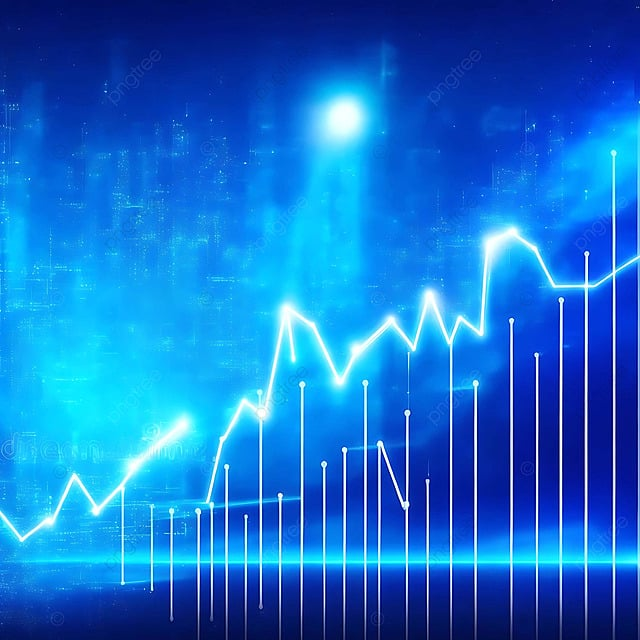
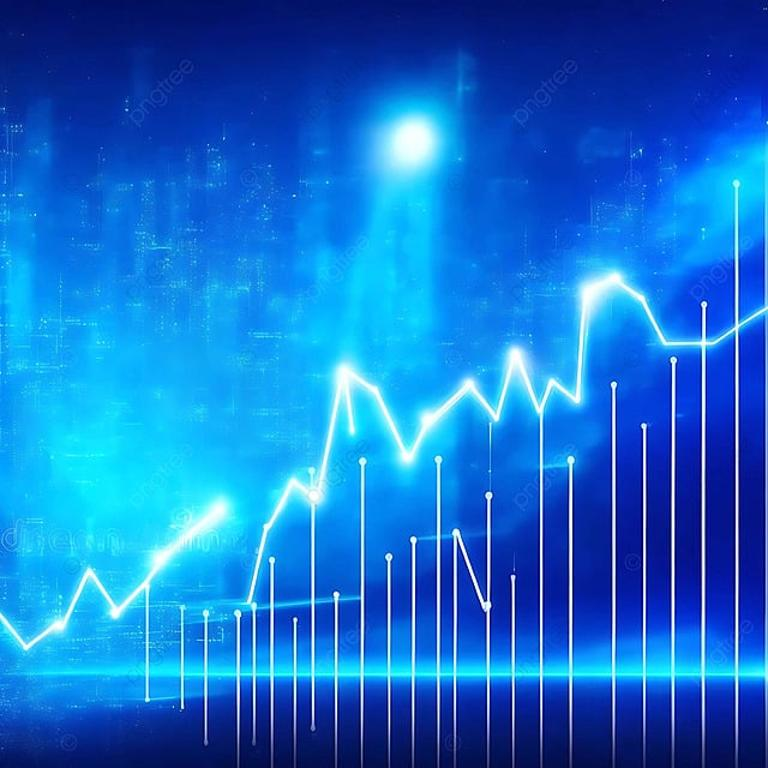
changed explorator and generator images for landing pages

diff --git a/src/utils/config.py b/src/utils/config.py
@@ -2,8 +2,8 @@ background = "https://github.com/OthmanBensoudaKoraichi/Persona_Artefact/blob/ma
 data_boa = "/Users/othmanbensouda/PycharmProjects/Persona_Artefact/sample_data_boa.xlsx"
 generator = "https://github.com/OthmanBensoudaKoraichi/Persona_Artefact/blob/master/imgs/generator.jpg?raw=true"
 logo_boa = "https://github.com/OthmanBensoudaKoraichi/Persona_Artefact/blob/master/imgs/logo_boa.png?raw=true"
-explorator = "https://github.com/OthmanBensoudaKoraichi/Persona_Artefact/blob/master/imgs/explorator.png?raw=true"
-favicon =
+explorator = "https://github.com/OthmanBensoudaKoraichi/Persona_Artefact/blob/master/imgs/explorator.jpg?raw=true"
+favicon = "https://github.com/OthmanBensoudaKoraichi/Persona_Artefact/blob/master/imgs/boa_favicon.png?raw=true"
 
 # Persona presentations
 persona_images = {

diff --git a/Accueil.py b/Accueil.py
@@ -5,7 +5,7 @@ from streamlit_extras.switch_page_button import switch_page
 
 def main():
     # Set style
-    st.set_page_config(layout="wide",initial_sidebar_state="collapsed")
+    st.set_page_config(layout="wide",initial_sidebar_state="collapsed",page_icon = config.favicon)
 
     style.set_bg_image(config.background)
     style.display_logo(config.logo_boa)
